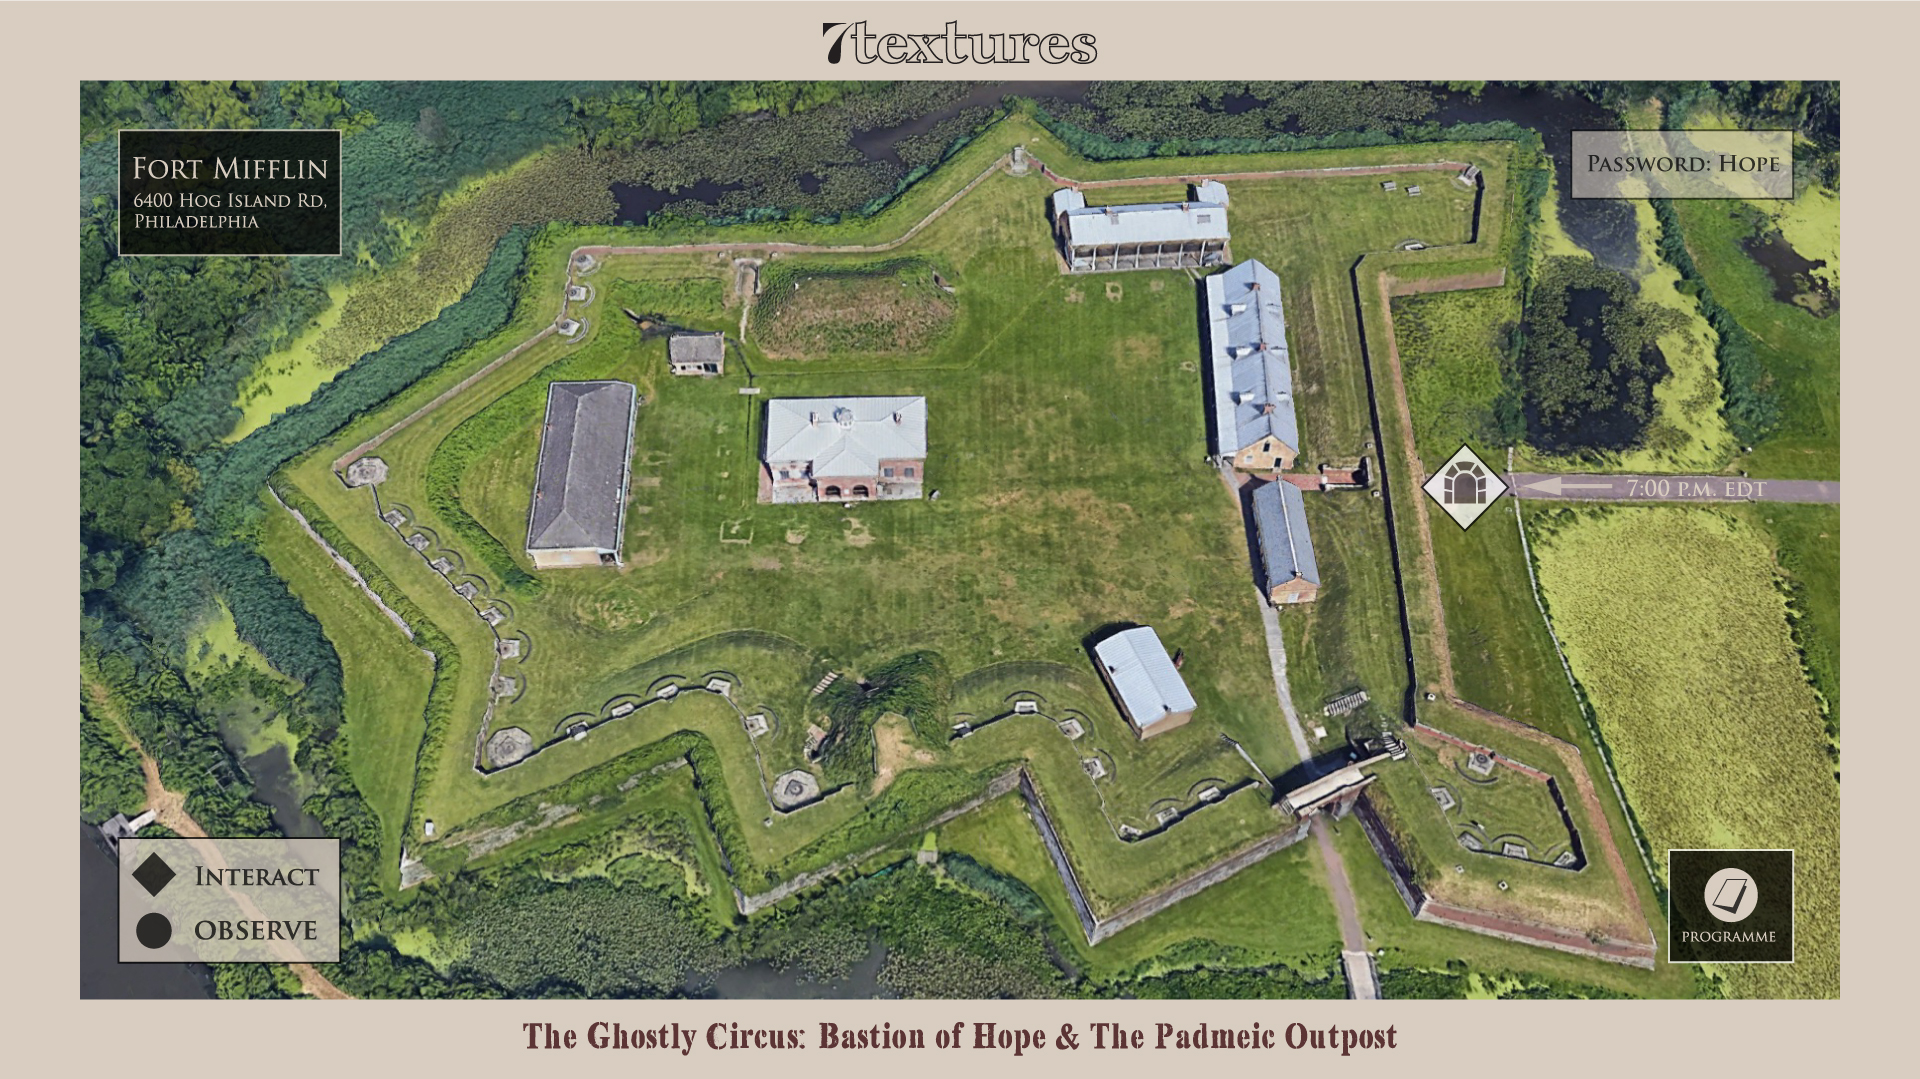
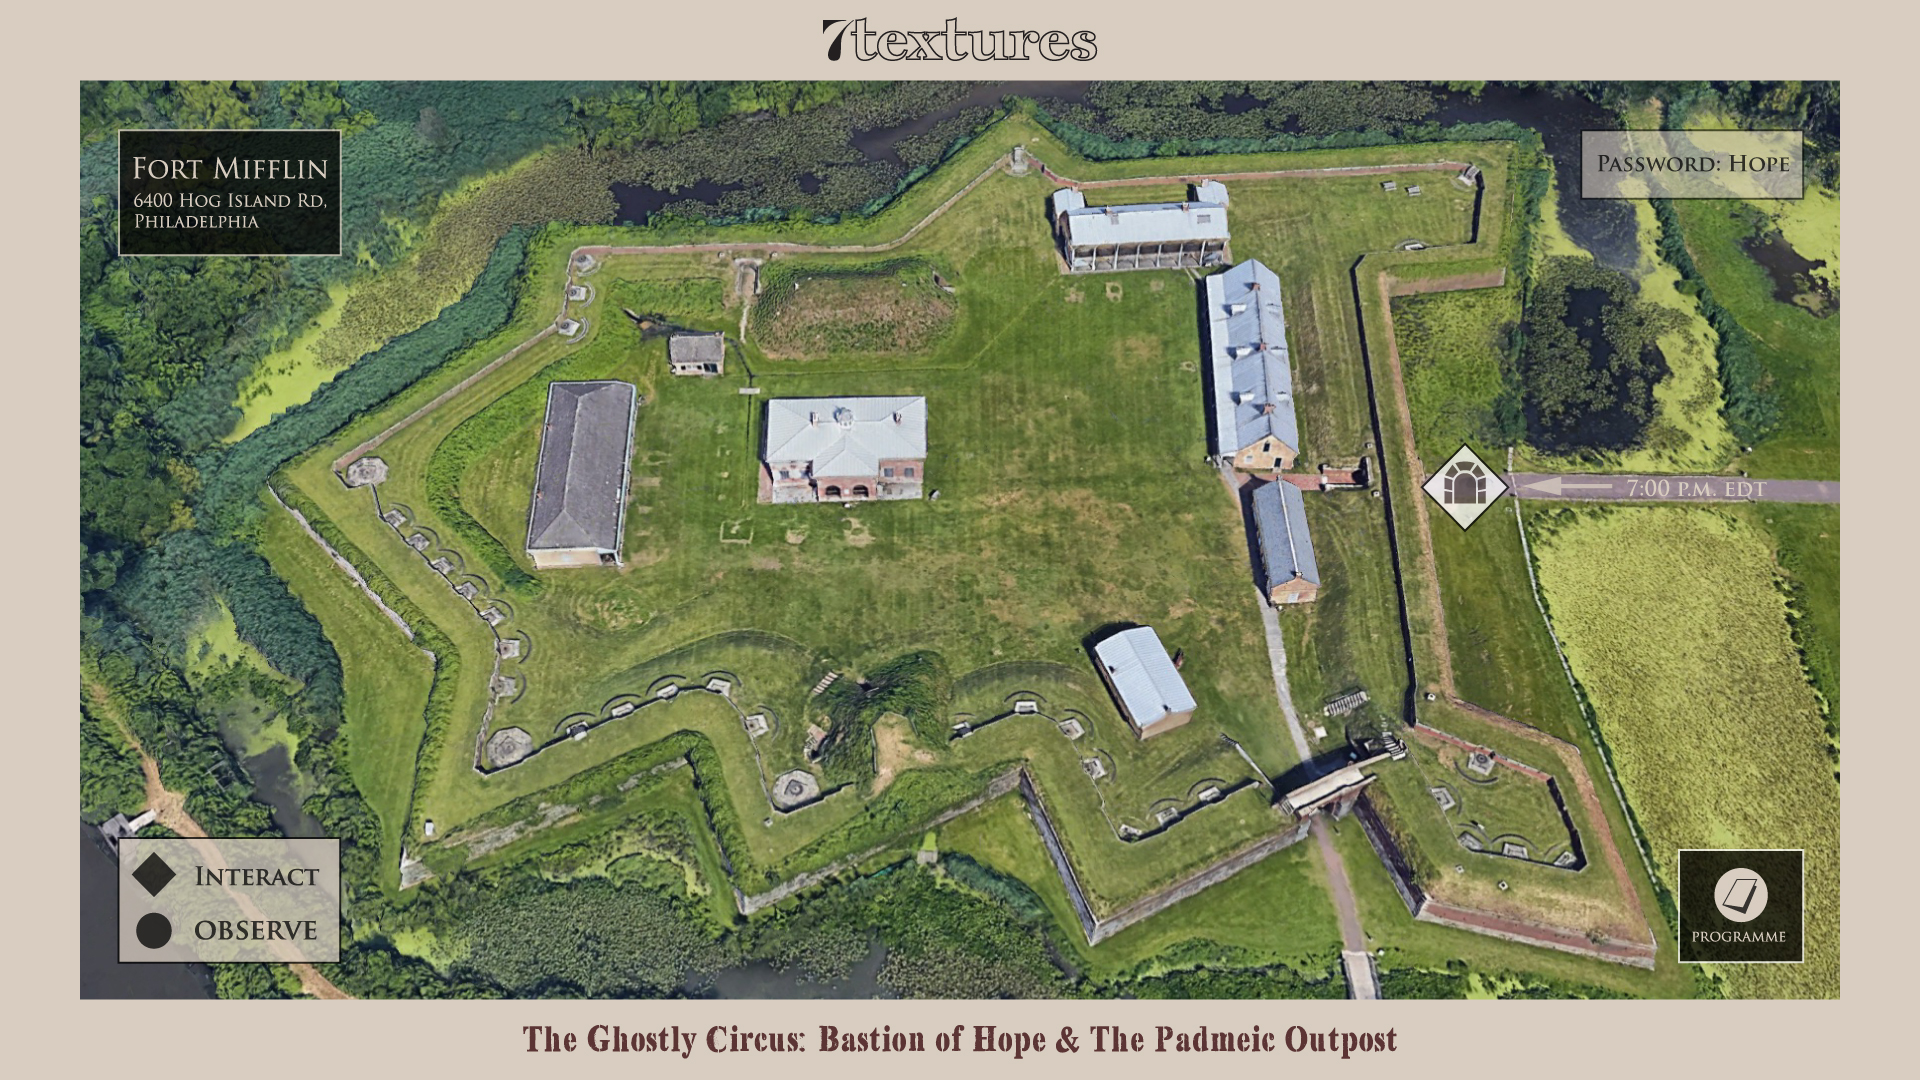
Add files via upload

diff --git a/MapA.html b/MapA.html
@@ -1,23 +1,47 @@
 <!doctype html>
 <html>
+
 <head>
-<meta charset="UTF-8">
-<title>Map A</title>
+  <meta charset="UTF-8">
+  <title>Map A</title>
+  <style>
+    body {
+      background: #D7CEBF;
+    }
+
+    div {
+      width: 100%;
+    }
+
+    img[usemap] {
+      border: none;
+      height: auto;
+      max-width: 100%;
+      width: auto;
+    }
+  </style>
 </head>
 
-<body style="background-color:#000000;">
-<p style="text-align: center;"><img src="Map-A.jpg" alt="" width="1440" height="809" usemap="#Map"/>
-<map name="Map">
-  <area shape="circle" coords="848,348,26" href="https://theghostlycircus.github.io/VideoTestMapA.html" target="_self">
-  <area shape="circle" coords="854,242,26" href="https://theghostlycircus.github.io/VideoTestMapA.html" target="_self">
-  <area shape="poly" coords="1063,366,1098,398,1128,367,1096,336,1064,366" href="https://us02web.zoom.us/j/84282929500?pwd=L05IR0N3czJBMGVlemttZGZ3OHp5QT09" target="_blank" alt="">
-  <area shape="poly" coords="1437,480,1479,437,1524,478,1480,524,1440,481" href="https://us02web.zoom.us/j/84282929500?pwd=L05IR0N3czJBMGVlemttZGZ3OHp5QT09" target="_blank">
-  <area shape="rect" coords="599,10,838,66" href="https://7textures.com/" target="_blank">
-  <area shape="rect" coords="93,102,258,194" href="http://www.fortmifflin.us/the-history/" target="_blank">
-  <area shape="rect" coords="1678,844,1804,957" href="https://docs.google.com/document/d/1oxdCfIc3kbREAi_3VOwWubDx8xuBo4jEH9MHm6XyMUo/edit?usp=sharing" target="_blank">
-  <area shape="poly" coords="1042,162,1073,130,1104,163,1074,193" href="#">
-  <area shape="rect" coords="1248,636,1341,717" href="#" target="_blank">
-</map>
-</p>
+<body>
+  <div>
+    <img src="Map0.jpg" width="1920" height="1080" usemap="#Map" />
+    <map name="Map">
+	<area target="_blank" alt="Fort Mifflin Histort" title="Fort Mifflin Histort" href="http://www.fortmifflin.us/the-history" coords="342,132,120,253" shape="rect">
+    <area target="_blank" alt="7textures" title="7textures" href="http://7textures.com" coords="812,17,1105,73" shape="rect">
+    <area target="_self" alt="Front Gate" title="Front Gate" href="https://us02web.zoom.us/j/85826784514?pwd=UnZOMks5RnZmNmZyOXNjaTllM0kyZz09" coords="1422,487,1468,444,1510,484,1466,533" shape="poly">
+    <area target="_parent" alt="Programme" title="Programme" href="https://7textures.com/program" coords="1670,852,1790,960" shape="rect">
+    </map>
+  </div>
+
+
+  <script src="https://ajax.googleapis.com/ajax/libs/jquery/1.10.2/jquery.min.js"></script>
+  <script src="js/jquery.rwdImageMaps.min.js"></script>
+  <script>
+    $(document).ready(function (e) {
+      $('img[usemap]').rwdImageMaps();
+    });
+  </script>
+
 </body>
+
 </html>
